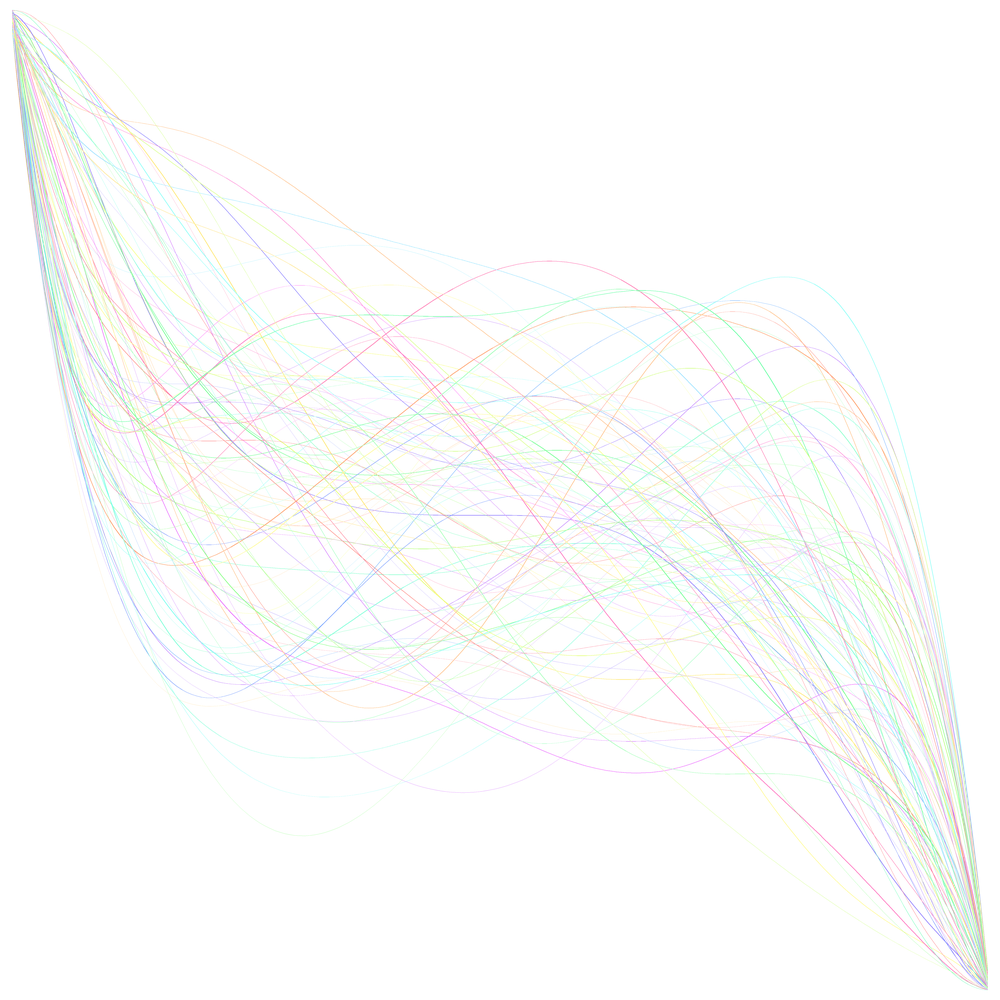
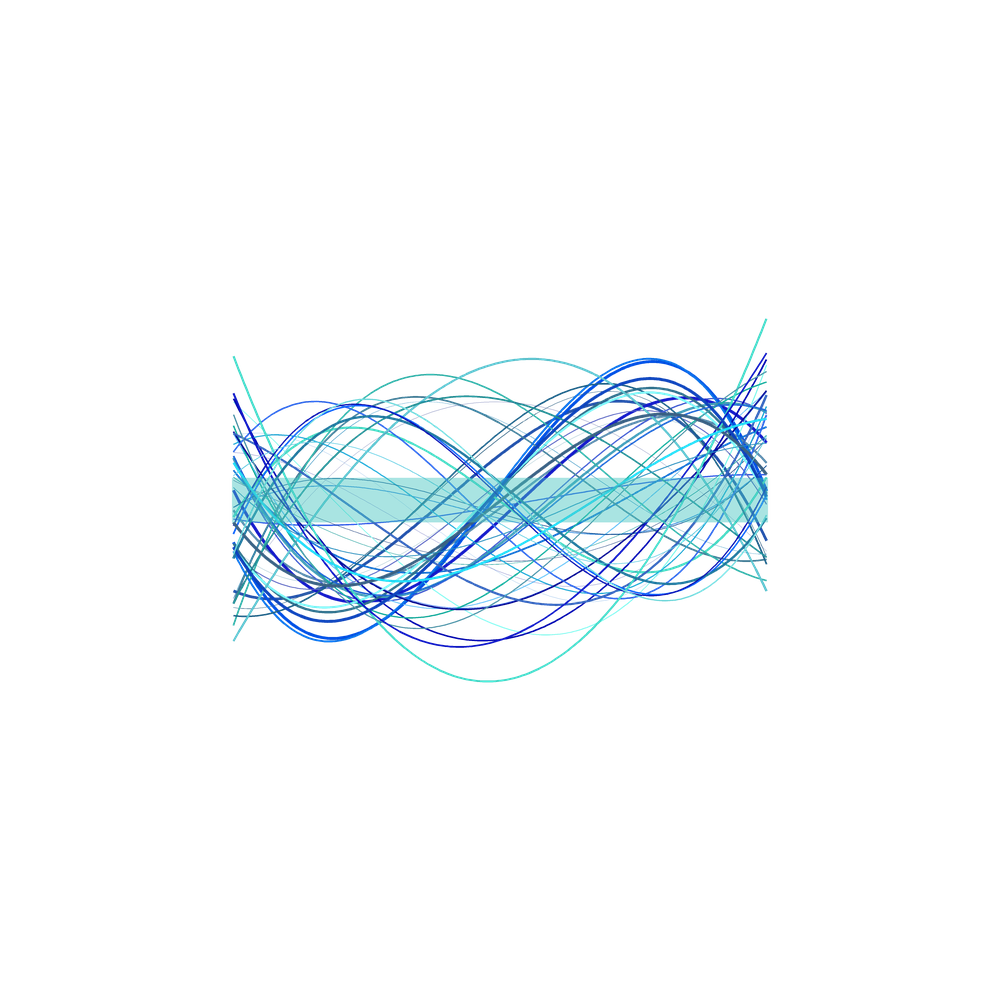
curvature improvement

diff --git a/curvature.py b/curvature.py
@@ -2,21 +2,45 @@ import random
 from PIL import Image, ImageDraw
 from tools.colors import *
 from classes.curve import Curve
-from tools.image_utils import points_along_line, create_image
+from tools.image_utils import points_along_line, create_image, calculate_offset
 
 
-def generate_art(image, points_num, color_func=random_pastel, width=5):
+def generate_art(image, points_num, start=None, end=None, color=random_pastel,
+                 color_change=True, steps=100, width=lambda: 1):
     accuracy = 0.005
-    color = color_func()
 
     curve = Curve(
-        points=points_along_line(image, points_num),
+        points=points_along_line(image, points_num, start=start, end=end),
         accuracy=accuracy,
-        color=color,
-        width=width)
+        color=color(),
+        width=width())
 
-    curve.create_curve()
-    curve.draw(image, centered=True)
+    print(start, end)
+
+    for _ in range(steps):
+        if color_change:
+            curve.color = color()
+        curve.points = points_along_line(image, points_num, start=start, end=end)
+        curve.width = width()
+        curve.create_curve()
+
+        curve.draw(image, centered=True)
+
+        image = Image.alpha_composite(image, curve.image)
+
+    polygon_image = Image.new('RGBA', image.size, (0, 0, 0, 0))
+
+    polygon_pos = [tuple(start), (end[0], start[1]), tuple(end), (start[0], end[1])]
+    off_x, off_y = calculate_offset(polygon_image, polygon_pos)
+    polygon_pos = [(polygon_pos[i][0] + off_x, polygon_pos[i][1] - off_y) for i in range(len(polygon_pos))]
+
+    polygon_color = add_transparency(color(), random.randint(10, 50) / 100)
+
+    ImageDraw.Draw(polygon_image).polygon(polygon_pos, fill=polygon_color)
+
+    image = Image.alpha_composite(image, polygon_image)
+
+    return image
 
 
 if __name__ == '__main__':
@@ -24,11 +48,18 @@ if __name__ == '__main__':
     factor = size // 1000
     img = Image.new('RGBA', (size, size), (0, 0, 0, 0))
 
-    for _ in range(100):
-        generate_art(image=img,
-                     points_num=10,
-                     color_func=random_pastel,
-                     width=random.randint(1, 3))
+    indent = 10
+    start = [random.randint(indent, size - indent), random.randint(indent, size - indent)]
+    end = [random.randint(indent, size - indent), random.randint(indent, size - indent)]
+
+    img = generate_art(image=img,
+                       points_num=3,
+                       start=start,
+                       end=end,
+                       color=random_blue,
+                       color_change=True,
+                       steps=50,
+                       width=lambda: random.randint(1, 15))
 
     img = img.resize((size//factor, size//factor), resample=Image.ANTIALIAS)
     img.save('images/curvature.png')

diff --git a/tools/image_utils.py b/tools/image_utils.py
@@ -28,17 +28,36 @@ def create_points(image, points_num, indent=50):
     return pts
 
 
-def points_along_line(image, points_num, indent=50):
-    start_point = [indent, indent]
-    end_point = [image.size[0] - indent, image.size[1] - indent]
-    pts = [start_point]
+def is_horizontal(start, end):
+    """Calculates general orientation of a line.
+    True - line is generally horizontal, False - line is generally vertical."""
 
-    step_length = end_point[0] // points_num
+    delta_x = end[0] - start[0]
+    delta_y = end[1] - start[1]
+    return abs(delta_x) >= abs(delta_y)
+
+
+def points_along_line(image, points_num, start=None, end=None, indent=50):
+    """Draws random points along line from start point to end point."""
+    if start is None:
+        start = [indent, indent]
+    if end is None:
+        end = [image.size[0] - indent, image.size[1] - indent]
+
+    pts = [start]
+
     for i in range(points_num - 1):
-        new_point = [step_length * (i + 1), random.randint(0, image.size[1])]
+
+        if is_horizontal(start, end):
+            step_length = (end[0] - start[0]) // points_num
+            new_point = [start[0] + step_length * (i + 1), random.randint(0, image.size[1])]
+        else:
+            step_length = (end[1] - start[1]) // points_num
+            new_point = [random.randint(0, image.size[1]), start[1] + step_length * (i + 1)]
+
         pts.append(new_point)
 
-    pts.append(end_point)
+    pts.append(end)
     pts = np.array(pts)
     return pts
 

diff --git a/curves_and_lines.py b/curves_and_lines.py
@@ -50,7 +50,7 @@ if __name__ == '__main__':
                           lines=300,
                           steps=10,
                           color_change=True,
-                          color_func=random_pastel)
+                          color_func=random_red)
 
     # makes image smoother
     my_img = my_img.resize((size//factor, size//factor), resample=Image.ANTIALIAS)

diff --git a/in_a_shape.py b/in_a_shape.py
@@ -46,7 +46,7 @@ if __name__ == '__main__':
                        points_num=5,
                        steps=20,
                        color_change=True,
-                       color_func=random_pastel)
+                       color_func=random_green)
 
     # makes image smoother
     img = img.resize((size//factor, size//factor), resample=Image.ANTIALIAS)

diff --git a/README.md b/README.md
@@ -1,8 +1,8 @@
 ## Generative art with python and PIL
 ***
 Example 1:
-![](images/curve.png)
+![](images/curve_example.png)
 Example 2:
-![](images/shape.png)
+![](images/shape_example.png)
 Example 3:
-![](images/curvature.png)
+![](images/curvature_example.png)
